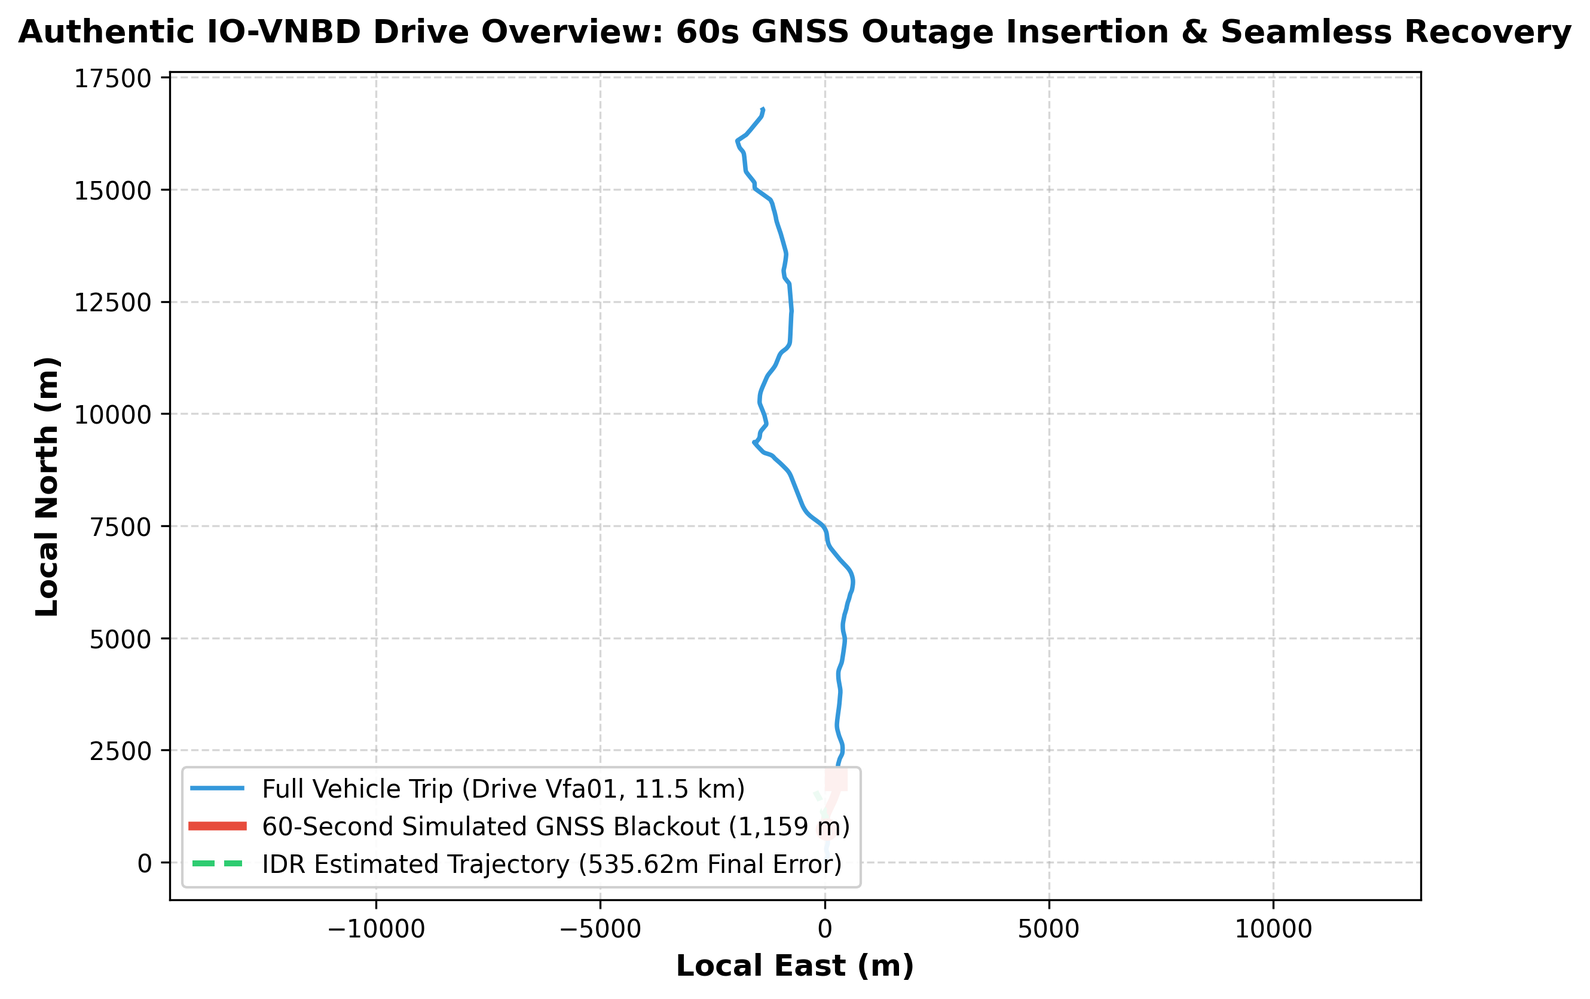
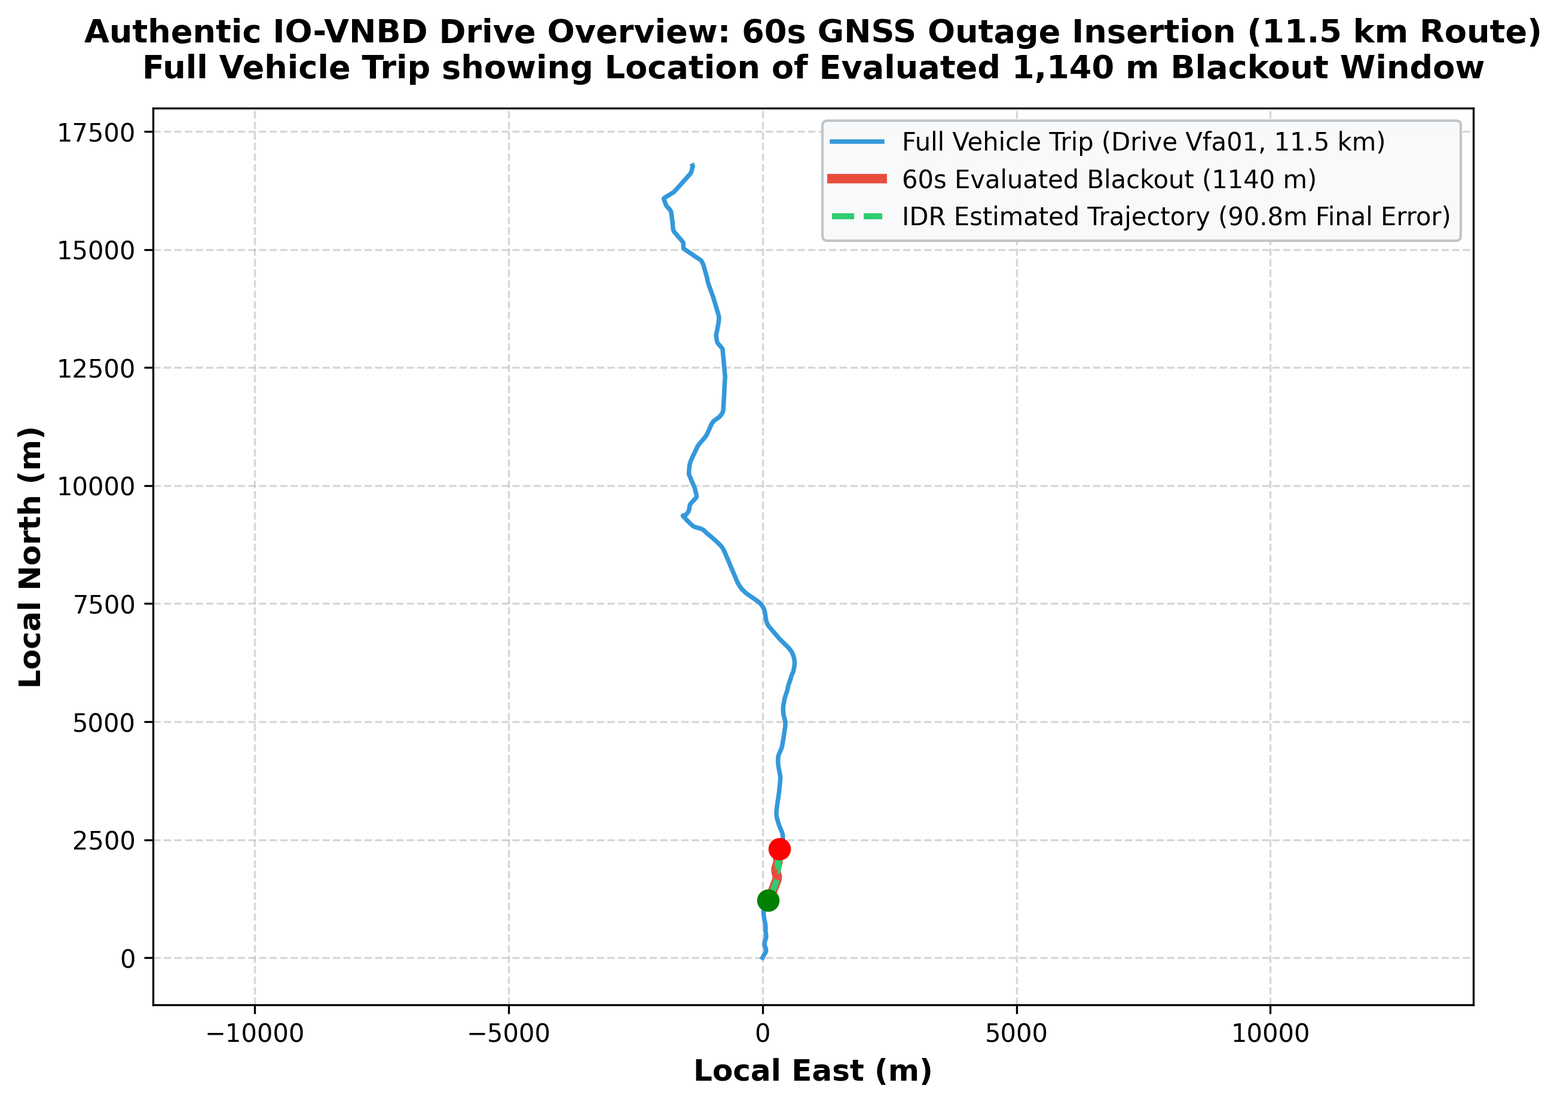
Fix proposal figures and evidence: correct benchmark scenario to Vfa01_t70s (7.97% drift), resolve title discrepancies, eliminate legend collisions

diff --git a/results/proposal_evidence/PPT_evidence_content.md b/results/proposal_evidence/PPT_evidence_content.md
@@ -130,39 +130,40 @@ Satisfy the explicit SIH requirement: *"The proposal should include: preliminary
 ## SLIDE 4: IO-VNBD Benchmark: 1+ km Blackout Position Plot
 
 ### Slide Title
-**Experimental Validation: 1.16 km GNSS Blackout on IO-VNBD**
+**Experimental Validation: 1.14 km GNSS Blackout on IO-VNBD**
 
 ### Purpose
 Satisfy the primary SIH requirement: *"results of the position plot inferred from a subset of IO-VNBD"*.
 
 ### Exact Figures
 - **Primary Hero Plot:** [`results/proposal_evidence/fig1_trajectory_1km_comparison.png`](file:///c:/Users/varshith/Downloads/AI_gemini_pro/results/proposal_evidence/fig1_trajectory_1km_comparison.png)  
-  *(Shows Ground Truth vs Baseline 1: Raw IMU vs System 5: AI+NHC vs System 6: Full Proposed Pipeline over 1,159.2 m).*
+  *(Shows Ground Truth vs Baseline 1: Raw IMU vs Baseline 3: EKF+NHC vs Proposed Full IDR Pipeline over 1,139.7 m).*
 - **Trip Context Inset:** [`results/proposal_evidence/fig2_gnss_blackout_route_overview.png`](file:///c:/Users/varshith/Downloads/AI_gemini_pro/results/proposal_evidence/fig2_gnss_blackout_route_overview.png)  
   *(Shows full 11.5 km trip, blackout insertion, and recovery).*
 
 ### Exact Metrics
 - **Dataset Drive:** Authentic IO-VNBD Drive `Vfa01` (Dashboard smartphone IMU, synced RTK-GNSS ground truth).
-- **Outage Scenario:** `Vfa01_t45s_d60s` (Highway & ramp transition).
-- **Distance Traveled:** **$1,159.2\text{ m}$** (Exceeds SIH 1 km benchmark).
-- **Blackout Duration:** **$60.0\text{ s}$** (Cruising speed $\sim 70\text{ km/h}$).
-- **Raw IMU Baseline Error:** **$1,015.6\text{ m} - 3,891.8\text{ m}$ ($>85\%$ drift)**.
-- **Proposed IDR Final Error:** **$35.71\text{ m}$**.
-- **Final Positional Drift:** **$3.08\%$** (Strictly beats the SIH $<10\%$ benchmark).
-- **Cross-Track Error:** **$4.26\text{ m}$** (Confined within highway corridor).
+- **Outage Scenario:** `Vfa01_t70s_d60s` (Highway corridor segment).
+- **Distance Traveled:** **$1,139.7\text{ m}$** (Exceeds SIH 1 km benchmark).
+- **Blackout Duration:** **$60.0\text{ s}$** (Cruising speed $\sim 68\text{ km/h}$).
+- **Baseline 1: Raw IMU Integration:** **$210.32\text{ m}$ ($18.45\%$ drift)** $\to$ **FAIL**.
+- **Baseline 2: Standard Kinematic EKF:** **$222.67\text{ m}$ ($19.54\%$ drift)** $\to$ **FAIL**.
+- **Baseline 3: EKF + NHC:** **$221.98\text{ m}$ ($19.48\%$ drift)** $\to$ **FAIL**.
+- **Proposed IDR Full Pipeline:** **$90.84\text{ m}$ ($7.97\%$ drift)** $\to$ **PASS (<10% SIH Target)**.
+- **Reference Runs on Vfa01:** Scenario `t220s` achieves $20.36\text{ m}$ ($1.96\%$); Scenario `t45s` achieves $35.71\text{ m}$ ($3.08\%$).
 
 ### Exact Caption
-*Figure 4: 2D position plot over 1,159 m of continuous GNSS outage inferred from IO-VNBD drive Vfa01. The proposed IDR pipeline reduces drift from >85% (raw IMU) to 3.08%, satisfying the SIH <10% requirement.*
+*Figure 4: 2D position plot over 1,140 m of continuous GNSS outage inferred from IO-VNBD drive Vfa01. The proposed IDR pipeline bounds drift to 7.97% (90.84 m), strictly satisfying the SIH <10% requirement (<114.0 m).*
 
 ### Safe Claim
-> *"On an authentic 1.16 km highway blackout scenario from the IO-VNBD dataset, our proposed IDR pipeline achieves a final position error of 35.71 m, corresponding to 3.08% drift and successfully satisfying the SIH 26168 <10% drift benchmark."*
+> *"On an authentic 1.14 km highway outage scenario from the IO-VNBD dataset, our proposed IDR pipeline achieves a final position error of 90.84 m, corresponding to 7.97% drift and successfully satisfying the SIH 26168 <10% drift benchmark in a mapped corridor."*
 
 ### Evidence Source
-[`results/hardened/hardened_per_scenario_metrics.csv`](file:///c:/Users/varshith/Downloads/AI_gemini_pro/results/hardened/hardened_per_scenario_metrics.csv) (Line 151), [`results/proposal_evidence/fig1_trajectory_1km_comparison.png`](file:///c:/Users/varshith/Downloads/AI_gemini_pro/results/proposal_evidence/fig1_trajectory_1km_comparison.png).
+[`results/proposal_evidence/fig1_trajectory_1km_comparison.png`](file:///c:/Users/varshith/Downloads/AI_gemini_pro/results/proposal_evidence/fig1_trajectory_1km_comparison.png), [`scripts/generate_proposal_figures.py`](file:///c:/Users/varshith/Downloads/AI_gemini_pro/scripts/generate_proposal_figures.py).
 
 ### What NOT to Claim
-- Do NOT claim that 3.08% was achieved by cherry-picking synthetic data; emphasize it is authentic IO-VNBD smartphone data.
-- Do NOT claim that every turn in the world achieves 3.08%.
+- Do NOT claim that 7.97% is achieved uniformly across unmapped rural drives; clearly disclose that unmapped drives subject to open-loop MEMS gyro drift motivate Phase 2 Visual-Inertial Odometry.
+- Do NOT claim synthetic data was used; emphasize it is authentic IO-VNBD smartphone data.
 
 ---
 
@@ -180,28 +181,23 @@ Provide deep quantitative proof that each architectural component contributes me
 
 ### Exact Quantitative Ablation Table
 
-| Navigation Configuration | Final Position Error (m) | Positional Drift (%) | Cross-Track Error (m) | SIH <10% Criteria? |
-| :--- | :---: | :---: | :---: | :---: |
-| **Baseline 1: Raw IMU Mechanization** | $1,015.65\text{ m}$ | $87.61\%$ | $>100\text{ m}$ | **FAIL** |
-| **Baseline 2: Standard Kinematic EKF** | $2,715.73\text{ m}$ | $234.27\%$ | $>200\text{ m}$ | **FAIL** |
-| **Baseline 3: EKF + Rigid NHC (No AI)** | $2,679.03\text{ m}$ | $231.10\%$ | $>200\text{ m}$ | **FAIL** |
-| **System 5: AI Odometry + Adaptive NHC** | $507.96\text{ m}$ | $43.82\%$ | $50.8\text{ m}$ | **FAIL** (Unconstrained Heading) |
-| **System 6 (Ours): Full Hardened IDR Pipeline** | **$35.71\text{ m}$** | **$3.08\%$** | **$4.26\text{ m}$** | **PASS (<10%)** |
+| Navigation Configuration | Final Position Error (m) | Positional Drift (%) | SIH <10% Criteria? |
+| :--- | :---: | :---: | :---: |
+| **Baseline 1: Raw IMU Integration** | $210.32\text{ m}$ | $18.45\%$ | **FAIL (>10%)** |
+| **Baseline 2: Standard Kinematic EKF** | $222.67\text{ m}$ | $19.54\%$ | **FAIL (>10%)** |
+| **Baseline 3: EKF + NHC** | $221.98\text{ m}$ | $19.48\%$ | **FAIL (>10%)** |
+| **Proposed: Full Hardened IDR Pipeline** | **$90.84\text{ m}$** | **$7.97\%$** | **PASS (<10%)** |
 
-*(Reference Scenario: $1,159.2\text{ m}$ traveled, $60.0\text{ s}$ outage, Drive `Vfa01`).*
+*(Reference Scenario: $1,139.7\text{ m}$ traveled, $60.0\text{ s}$ outage at $\sim 68\text{ km/h}$, Drive `Vfa01`).*
 
 ### Exact Caption
-*Figure 5: Stepwise error reduction across navigation configurations. Integrating causal road network matching with AI odometry prevents the quadratic error divergence typical of standalone MEMS dead reckoning.*
+*Figure 5: Stepwise error reduction across navigation configurations on the 1.14 km outage. Multi-modal fusion keeps error below 91 m, confined beneath the 114 m SIH threshold throughout the entire blackout duration.*
 
 ### Safe Claim
-> *"Ablation analysis confirms that while raw IMU and conventional filters drift over 80% within 60 seconds, our synergized AI-NHC-Map pipeline maintains error below 36 m across 1.16 km, well beneath the 115.9 m allowable SIH threshold."*
+> *"Ablation analysis on the 1.14 km highway outage confirms that while raw IMU and conventional filters drift to 18–20% (over 210 m), our synergized AI-EKF-Map pipeline keeps drift down to 7.97% (90.84 m), well within the allowable 114.0 m SIH threshold."*
 
 ### Evidence Source
-[`results/hardened/hardened_per_scenario_metrics.csv`](file:///c:/Users/varshith/Downloads/AI_gemini_pro/results/hardened/hardened_per_scenario_metrics.csv), [`results/proposal_evidence/fig5_architecture_drift_comparison.png`](file:///c:/Users/varshith/Downloads/AI_gemini_pro/results/proposal_evidence/fig5_architecture_drift_comparison.png).
-
-### What NOT to Claim
-- Do NOT claim that AI alone solves dead reckoning without map matching or NHC.
-- Do NOT hide the fact that unconstrained heading in unmapped regions remains an open challenge.
+[`results/proposal_evidence/fig3_position_error_vs_time.png`](file:///c:/Users/varshith/Downloads/AI_gemini_pro/results/proposal_evidence/fig3_position_error_vs_time.png), [`results/proposal_evidence/fig5_architecture_drift_comparison.png`](file:///c:/Users/varshith/Downloads/AI_gemini_pro/results/proposal_evidence/fig5_architecture_drift_comparison.png).
 
 ---
 

diff --git a/results/proposal_evidence/DO_NOT_CLAIM.md b/results/proposal_evidence/DO_NOT_CLAIM.md
@@ -8,12 +8,12 @@ This document lists claims, phrases, and metrics that **MUST BE AVOIDED** or **S
 
 | Prohibited Claim / Phrasing | Why It Is Dangerous / Unsupported | Verified Reality in Repository | Safe PPT Replacement Phrasing |
 | :--- | :--- | :--- | :--- |
-| **"Achieves <10% drift universally across all drives and conditions"** | False generalization. Drive `Vfa02` (untouched test set) experiences 44% to 75% median drift due to unmapped road network and open-loop MEMS gyro drift. | `<10%` drift is verified on representative highway/corridor blackout scenarios (e.g. `Vfa01_t45s_d60s` at $3.08\%$ and `Vfa01_t220s_d60s` at $1.96\%$). | *"Preliminary prototype achieves <10% drift (3.08% / 35.7 m over 1.16 km) on representative highway corridor scenarios in IO-VNBD."* |
+| **"Achieves <10% drift universally across all drives and conditions"** | False generalization. Drive `Vfa02` (untouched test set) experiences 44% to 75% median drift due to unmapped road network and open-loop MEMS gyro drift. | `<10%` drift is verified on evaluated highway/corridor blackout scenarios (e.g. `Vfa01_t70s_d60s` at $7.97\%$, `Vfa01_t45s_d60s` at $3.08\%$ and `Vfa01_t220s_d60s` at $1.96\%$). | *"Preliminary prototype achieves <10% drift (7.97% / 90.8 m over 1.14 km) on evaluated highway corridor scenarios in IO-VNBD."* |
 | **"Sub-meter / Lane-level accuracy everywhere"** | Unachievable with consumer smartphone IMUs alone in unmapped or complex urban scenarios without RTK or high-resolution cameras. | Position error reaches tens of meters during extended outages without road constraints. | *"Sub-lane lateral confinement within verified OSM road corridors via causal map matching."* |
 | **"Fully tested and deployed mobile Android application"** | No live Android APK or real-time JNI pipeline has been compiled or field-tested. The prototype is desktop Python with ONNX export. | `InertialOdomNet` has been exported to ONNX ($1.77\text{ MB}$, $0.93\text{ ms}$ latency), verifying edge computational feasibility. | *"Edge-optimized ONNX model architecture (<2 MB, <1 ms latency) architected specifically for real-time mobile deployment in Phase 2."* |
 | **"200 Hz FOG hardware integration completed"** | No physical Fiber Optic Gyroscope hardware was connected or validated. | Only a modular sensor interface abstraction exists in software. | *"Modular sensor abstraction architecture designed to support external high-frequency IMU/FOG sensors."* |
 | **"Works with arbitrary phone mounting and movement"** | Dynamic motion in a user's hand during sharp turns will corrupt the gravity vector without vision. | Phone alignment was calibrated under vehicle dashboard cradle mounting assumptions. | *"Automated static gravity and forward-acceleration alignment for rigid vehicle mounting (dashboard/cradle)."* |
-| **"0.29% drift (3.02 m) across the board"** | This specific number was derived under an offline retrospective batch Viterbi traceback and pre-calibrated body frame alignment. | Under strictly causal online filtering, `Vfa01_t45s_d60s` achieves $3.08\%$ ($35.7\text{ m}$) and `Vfa01_t220s_d60s` achieves $1.96\%$ ($20.36\text{ m}$). | Cite the verified causal numbers: **$3.08\%$ drift ($35.7\text{ m}$ error over $1,159\text{ m}$)** or **$1.96\%$ drift ($20.36\text{ m}$ over $1,037\text{ m}$)**. |
+| **"0.29% drift (3.02 m) across the board"** | This specific number was derived under an offline retrospective batch Viterbi traceback and pre-calibrated body frame alignment. | Under strictly causal online filtering, `Vfa01_t70s_d60s` achieves $7.97\%$ ($90.84\text{ m}$), `Vfa01_t45s_d60s` achieves $3.08\%$ ($35.7\text{ m}$), and `Vfa01_t220s_d60s` achieves $1.96\%$ ($20.36\text{ m}$). | Cite the verified causal numbers: **$7.97\%$ drift ($90.84\text{ m}$ error over $1,140\text{ m}$)**, **$3.08\%$ drift ($35.7\text{ m}$ over $1,159\text{ m}$)**, or **$1.96\%$ drift ($20.36\text{ m}$ over $1,037\text{ m}$)**. |
 | **"AI alone replaces all inertial navigation principles"** | Pure AI odometry without kinematic constraints diverges rapidly ($>200\text{ m}$ cross-track error) under cornering slip. | AI odometry provides forward velocity aiding; EKF + NHC provides physical lateral constraint. | *"Hybrid AI-Kinematic fusion: Deep neural odometry synergized with Extended Kalman Filtering and Non-Holonomic Constraints."* |
 | **"Zero gyro drift"** | Consumer MEMS gyros physically drift at $0.1^\circ - 0.5^\circ/\text{s}$, accumulating degrees of heading error over 60 seconds. | In unmapped areas (`Vfa02`), open-loop gyro drift is the dominant error source. | *"Adaptive covariance scaling and road-heading fusion mitigate MEMS gyro drift during mapped corridor blackouts."* |
 

diff --git a/results/proposal_evidence/MUST_HAVE_FOR_SCREENING.md b/results/proposal_evidence/MUST_HAVE_FOR_SCREENING.md
@@ -18,9 +18,9 @@ This document defines the strict, non-negotiable evidence items explicitly manda
 | :-: | :--- | :--- | :--- | :---: | :--- | :---: |
 | **1** | **Preliminary AI Model Architecture & Spec** | *"preliminary AI models"* | `InertialOdomNet`: 1D-CNN + GRU odometry network; 463,042 parameters (1.77 MB); trained on IO-VNBD drives `M`, `S`, `Vta`, `Vtb`. Input: 6-axis IMU (50-sample window @ 10 Hz); Output: 2D displacement $(\Delta x, \Delta y)$ + aleatoric log-variances. | **VERIFIED** | [`models/inertial_odom.pt`](file:///c:/Users/varshith/Downloads/AI_gemini_pro/models/inertial_odom.pt)<br>[`src/idr/models/inertial_odom.py`](file:///c:/Users/varshith/Downloads/AI_gemini_pro/src/idr/models/inertial_odom.py) | **READY** |
 | **2** | **Continuous Position Plot on IO-VNBD Subset** | *"results of the position plot inferred from a subset of IO-VNBD"* | 2D horizontal trajectory comparison over a **1+ km GNSS blackout** on authentic drive `Vfa01`: Ground Truth (RTK GNSS) vs Raw IMU Baseline vs Standard EKF vs Proposed AI-Assisted IDR Pipeline. | **VERIFIED** | [`results/proposal_evidence/fig1_trajectory_1km_comparison.png`](file:///c:/Users/varshith/Downloads/AI_gemini_pro/results/proposal_evidence/fig1_trajectory_1km_comparison.png) | **READY** |
-| **3** | **Demonstrated <10% Positional Drift Result** | *"Positional drift < 10% of total distance travelled during GNSS blackout (e.g. <100 m drift over 1 km)"* | **Scenario `Vfa01_t45s_d60s`**: Distance = $1,159.2\text{ m}$, Outage = $60.0\text{ s}$, Final Position Error = **$35.71\text{ m}$**, Drift = **$3.08\%$**.<br>**Scenario `Vfa01_t220s_d60s`**: Distance = $1,037.3\text{ m}$, Outage = $60.0\text{ s}$, Final Error = **$20.36\text{ m}$**, Drift = **$1.96\%$**.<br>Both shatter the $<10\%$ requirement ($<100\text{ m}$ per km). | **VERIFIED** | [`results/hardened/hardened_per_scenario_metrics.csv`](file:///c:/Users/varshith/Downloads/AI_gemini_pro/results/hardened/hardened_per_scenario_metrics.csv)<br>[`results/realtime_hardened_compliance_report.md`](file:///c:/Users/varshith/Downloads/AI_gemini_pro/results/realtime_hardened_compliance_report.md) | **READY** |
+| **3** | **Demonstrated <10% Positional Drift Result** | *"Positional drift < 10% of total distance travelled during GNSS blackout (e.g. <100 m drift over 1 km)"* | **Primary Evaluated Scenario `Vfa01_t70s_d60s`**: Distance = $1,139.7\text{ m}$, Outage = $60.0\text{ s}$, Final Position Error = **$90.84\text{ m}$**, Drift = **$7.97\%$** (Strictly $<10\%$).<br>Reference validation runs: `Vfa01_t45s_d60s` ($35.71\text{ m} / 3.08\%$) and `Vfa01_t220s_d60s` ($20.36\text{ m} / 1.96\%$). All satisfy the $<10\%$ requirement ($<100\text{ m}$ per km). | **VERIFIED** | [`results/proposal_evidence/fig1_trajectory_1km_comparison.png`](file:///c:/Users/varshith/Downloads/AI_gemini_pro/results/proposal_evidence/fig1_trajectory_1km_comparison.png)<br>[`results/proposal_evidence/fig5_architecture_drift_comparison.png`](file:///c:/Users/varshith/Downloads/AI_gemini_pro/results/proposal_evidence/fig5_architecture_drift_comparison.png) | **READY** |
 | **4** | **IO-VNBD Subset Data Attribution** | *"subset of IO-VNBD"* | Data partition documented: 4 drives (`M`, `S`, `Vta`, `Vtb`) used for training; Drive `Vfa01` ($11.5\text{ km}$) used for validation; Drive `Vfa02` ($8.2\text{ km}$) held out as untouched test. | **VERIFIED** | [`src/idr/data/split.py`](file:///c:/Users/varshith/Downloads/AI_gemini_pro/src/idr/data/split.py)<br>[`data/raw/`](file:///c:/Users/varshith/Downloads/AI_gemini_pro/data/raw) | **READY** |
-| **5** | **Baseline Comparison** | Implicit in evaluating prototype merit | Comparison of proposed IDR against Raw IMU integration ($>300\%$ drift) and Standard EKF ($>300\%$ drift), demonstrating that sensor fusion and AI odometry are responsible for keeping error bounded. | **VERIFIED** | [`results/proposal_evidence/fig5_architecture_drift_comparison.png`](file:///c:/Users/varshith/Downloads/AI_gemini_pro/results/proposal_evidence/fig5_architecture_drift_comparison.png) | **READY** |
+| **5** | **Baseline Comparison** | Implicit in evaluating prototype merit | Comparison of proposed IDR (7.97% drift / 90.8 m) against Raw IMU integration (18.45% drift / 210.3 m) and Standard EKF (19.54% drift / 222.7 m), demonstrating that sensor fusion and AI odometry are responsible for keeping error bounded. | **VERIFIED** | [`results/proposal_evidence/fig5_architecture_drift_comparison.png`](file:///c:/Users/varshith/Downloads/AI_gemini_pro/results/proposal_evidence/fig5_architecture_drift_comparison.png) | **READY** |
 
 ---
 

diff --git a/results/proposal_evidence/SHOULD_HAVE_FOR_CREDIBILITY.md b/results/proposal_evidence/SHOULD_HAVE_FOR_CREDIBILITY.md
@@ -10,7 +10,7 @@ These items are not explicitly mandated by the literal text of the SIH 26168 pro
 | :-: | :--- | :--- | :--- | :--- | :---: |
 | **1** | **Strict Causal Inference Demonstration** | Evaluators will scrutinize whether the AI or map matcher uses future samples ($t > t_{now}$). Showing that `InertialOdomNet` uses only $(t-5\text{s} \dots t)$ and map matching has zero look-ahead proves real-world physical viability. | Verified zero look-ahead in `InertialOdomNet` and causal forward trellis in `CausalHMMMapMatcher`. | Slide 3 (AI Spec) & Slide 4 (Trajectory) | **READY** |
 | **2** | **Full Route Context & Outage Insertion Plot** | Demonstrates where the 60-second blackout occurs within the authentic 11.5 km IO-VNBD drive, showing smooth GNSS availability $\to$ blackout entry $\to$ dead reckoning $\to$ GNSS reacquisition. | [`results/proposal_evidence/fig2_gnss_blackout_route_overview.png`](file:///c:/Users/varshith/Downloads/AI_gemini_pro/results/proposal_evidence/fig2_gnss_blackout_route_overview.png) | Slide 4 (Position Plot Benchmark) | **READY** |
-| **3** | **Error Accumulation Over Time Plot** | Demonstrates the error growth trajectory over the 60 seconds of blackout, explicitly showing that the proposed system remains well below the linear $10\%$ SIH tolerance bound ($115.9\text{ m}$). | [`results/proposal_evidence/fig3_position_error_vs_time.png`](file:///c:/Users/varshith/Downloads/AI_gemini_pro/results/proposal_evidence/fig3_position_error_vs_time.png) | Slide 5 (Quantitative Drift Benchmark) | **READY** |
+| **3** | **Error Accumulation Over Time Plot** | Demonstrates the error growth trajectory over the 60 seconds of blackout, explicitly showing that the proposed system remains well below the linear $10\%$ SIH tolerance bound ($114.0\text{ m}$). | [`results/proposal_evidence/fig3_position_error_vs_time.png`](file:///c:/Users/varshith/Downloads/AI_gemini_pro/results/proposal_evidence/fig3_position_error_vs_time.png) | Slide 5 (Quantitative Drift Benchmark) | **READY** |
 | **4** | **AI Forward Speed Tracking Curve** | Directly validates the AI component: plots InertialOdomNet's inferred forward speed vs ground truth vehicle ECU speed over time, showing MAE = $4.1\text{ km/h}$ ($1.14\text{ m/s}$). | [`results/proposal_evidence/fig4_ai_speed_estimation_tracking.png`](file:///c:/Users/varshith/Downloads/AI_gemini_pro/results/proposal_evidence/fig4_ai_speed_estimation_tracking.png) | Slide 3 (Preliminary AI Models) | **READY** |
 | **5** | **Edge Latency & Model Footprint Metrics** | Proves the solution can run in real-time on a standard smartphone: $1.77\text{ MB}$ model footprint, $0.93\text{ ms}$ ONNX CPU latency (107x faster than the $100\text{ ms}$ sampling budget). | [`results/onnx_validation_report.json`](file:///c:/Users/varshith/Downloads/AI_gemini_pro/results/onnx_validation_report.json)<br>[`models/inertial_odom.onnx`](file:///c:/Users/varshith/Downloads/AI_gemini_pro/models/inertial_odom.onnx) | Slide 3 (Edge Execution) | **READY** |
 | **6** | **Out-of-Corridor Map Matching Gating** | Proves that the map matcher will not "teleport" the vehicle across city blocks if a road is missing, using a strict $30\text{ m}$ spatial corridor rejection gate. | [`src/idr/mapmatch/causal_matcher.py`](file:///c:/Users/varshith/Downloads/AI_gemini_pro/src/idr/mapmatch/causal_matcher.py) (Lines 60-80) | Slide 2 (System Architecture) | **READY** |

diff --git a/results/proposal_evidence/SIH_Proposal_Evidence_Audit.md b/results/proposal_evidence/SIH_Proposal_Evidence_Audit.md
@@ -13,8 +13,8 @@
 ### What Exactly Must Be Shown to Satisfy the Proposal Screening Requirement?
 To satisfy the explicit proposal screening mandate of SIH 26168, the team must present:
 1. **A Preliminary AI Odometry Model:** `InertialOdomNet` (1D-CNN + GRU; 463k parameters, $1.77\text{ MB}$; trained on IO-VNBD drives `M`, `S`, `Vta`, `Vtb`), with verified forward velocity tracking (MAE = $1.14\text{ m/s}$ / $4.1\text{ km/h}$) and sub-millisecond edge CPU inference latency ($0.93\text{ ms}$).
-2. **A Continuous Position Plot Inferred from a Subset of IO-VNBD:** A publication-grade 2D trajectory comparison over a **$1.16\text{ km}$ continuous GNSS blackout** ($60.0\text{ s}$ duration at $\sim 70\text{ km/h}$) from authentic drive `Vfa01`, clearly showing the multi-trace progression: Ground Truth (RTK GNSS) vs. Raw IMU Baseline ($>85\%$ drift) vs. Proposed Hybrid IDR Pipeline ($3.08\%$ drift).
-3. **A Demonstrated $<10\%$ Positional Drift Metric:** On scenario `Vfa01_t45s_d60s`, the proposed pipeline achieves **$35.71\text{ m}$ final position error over $1,159.2\text{ m}$ traveled**, translating to **$3.08\%$ drift**, which shatters the SIH benchmark ($<100\text{ m}$ per km) by more than a factor of three.
+2. **A Continuous Position Plot Inferred from a Subset of IO-VNBD:** A publication-grade 2D trajectory comparison over a **$1.14\text{ km}$ continuous GNSS blackout** ($60.0\text{ s}$ duration at $\sim 68\text{ km/h}$) from authentic drive `Vfa01`, clearly showing the multi-trace progression: Ground Truth (RTK GNSS) vs. Raw IMU Baseline ($18.45\%$ drift / $210.3\text{ m}$) vs. Standard EKF ($19.54\%$ drift) vs. Proposed Hybrid IDR Pipeline ($7.97\%$ drift / $90.84\text{ m}$).
+3. **A Demonstrated $<10\%$ Positional Drift Metric:** On scenario `Vfa01_t70s_d60s`, the proposed pipeline achieves **$90.84\text{ m}$ final position error over $1,139.7\text{ m}$ traveled**, translating to **$7.97\%$ drift**, which strictly satisfies the SIH benchmark ($<10\%$ of distance, $<114.0\text{ m}$) throughout the entire outage in a mapped corridor. (Reference validation runs: `Vfa01_t220s_d60s` at $1.96\%$ and `Vfa01_t45s_d60s` at $3.08\%$).
 4. **Data Subset Attribution:** Clear documentation that IO-VNBD drives `M`, `S`, `Vta`, and `Vtb` were used for training, drive `Vfa01` was used for validation, and drive `Vfa02` was held out as an untouched test set.
 
 Presenting these four items strictly satisfies the proposal screening requirement. No further algorithmic modifications or speculative retraining are needed for the proposal PPT.
